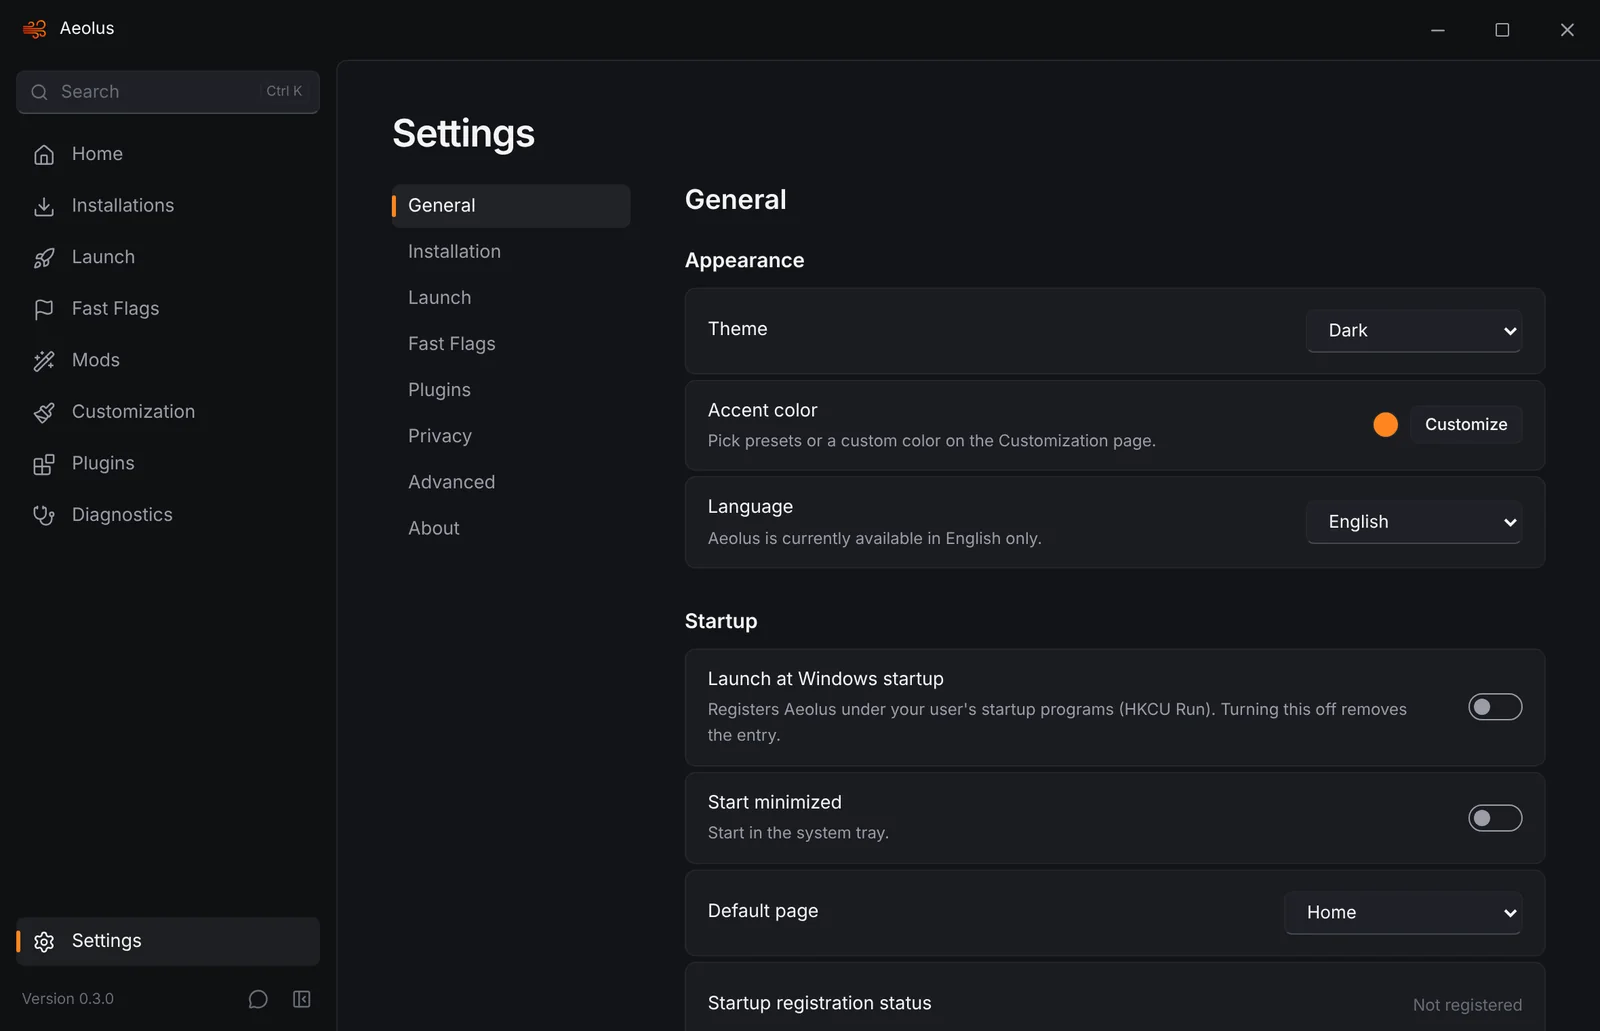
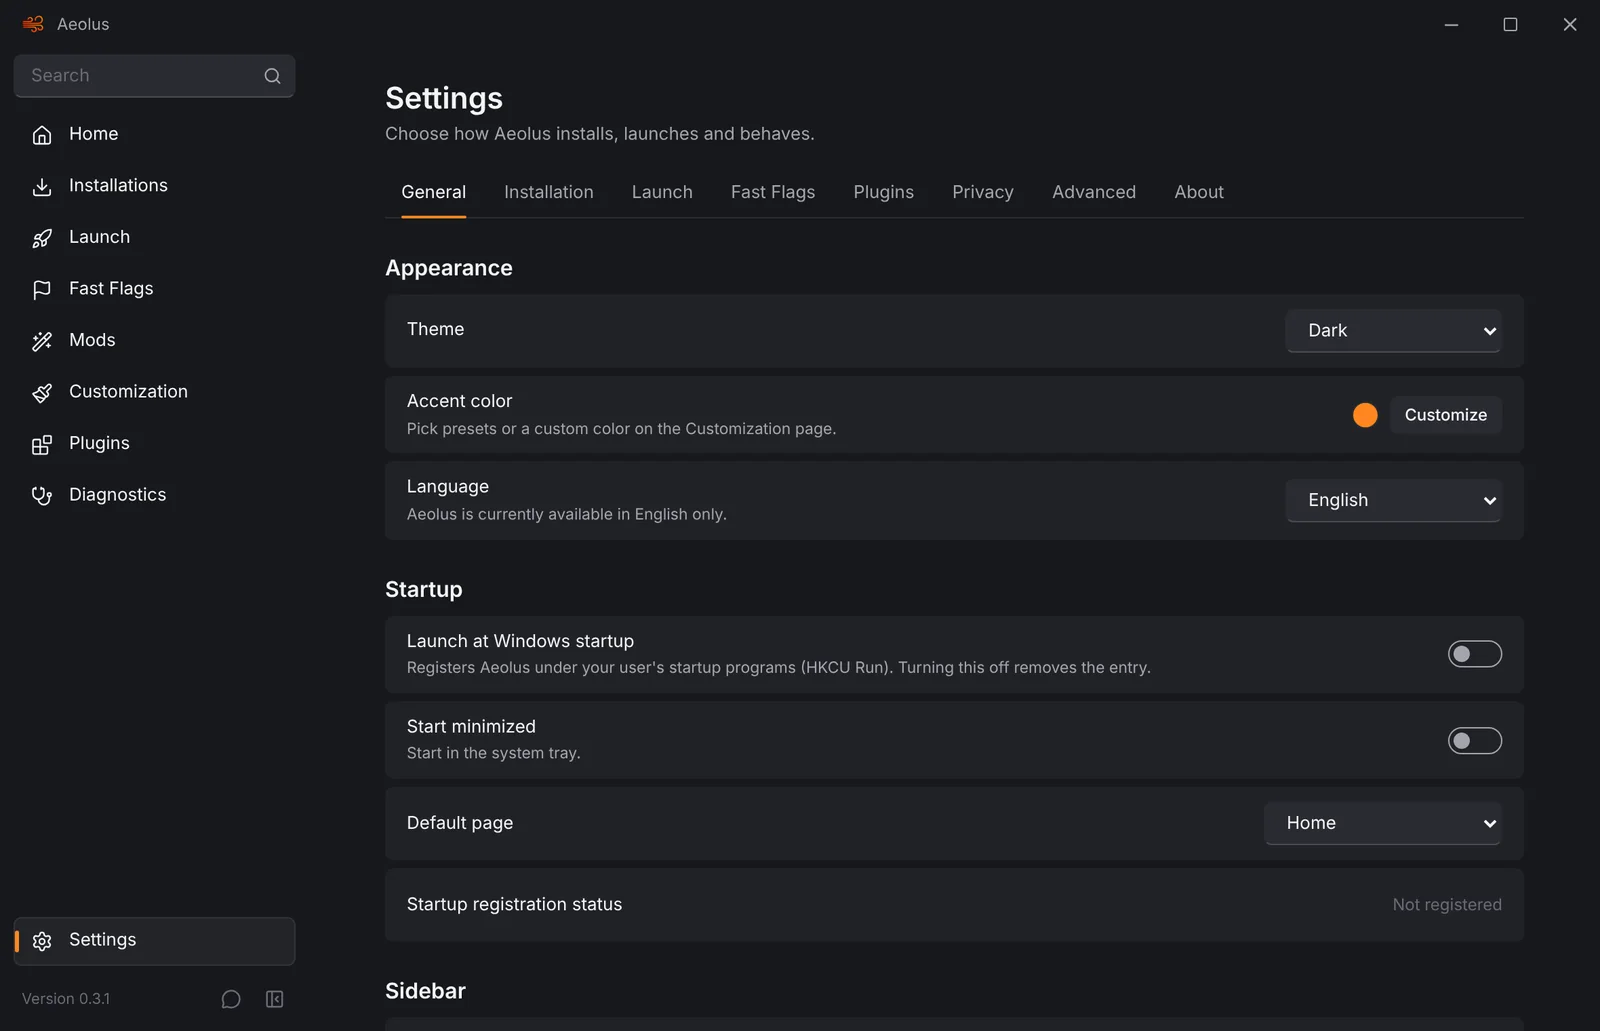
More minimal design: flat background, compact rows, settings tabs (0.3.1)

diff --git a/src/pages/Settings.tsx b/src/pages/Settings.tsx
@@ -58,24 +58,24 @@ export default function Settings() {
   );
 
   return (
-    <div className="mx-auto flex max-w-5xl gap-10 px-10 py-9">
-      <nav className="sticky top-0 w-44 shrink-0 self-start" aria-label="Settings sections">
-        <h1 className="mb-5 text-[28px] font-semibold leading-tight tracking-tight text-fg">Settings</h1>
+    <div className="mx-auto max-w-4xl px-7 py-6">
+      <h1 className="text-[22px] font-semibold leading-tight text-fg">Settings</h1>
+      <p className="mt-0.5 text-[13px] text-fg-2">Choose how Aeolus installs, launches and behaves.</p>
+      <nav className="mb-6 mt-4 flex flex-wrap gap-1 border-b border-line" aria-label="Settings sections">
         {SECTIONS.map((x) => (
           <button
             key={x}
             onClick={() => setSection(x)}
             aria-current={section === x ? "page" : undefined}
-            className={cx("relative mb-0.5 flex h-8 w-full items-center rounded-md px-3 text-left text-[13.5px] transition-colors", section === x ? "bg-fg/[0.07] text-fg" : "text-fg-2 hover:bg-fg/[0.04] hover:text-fg")}
+            className={cx("relative -mb-px h-9 px-3 text-[13px] transition-colors", section === x ? "text-fg" : "text-fg-2 hover:text-fg")}
           >
-            {section === x && <span className="absolute left-0 top-1/2 h-4 w-[3px] -translate-y-1/2 rounded-full bg-accent" />}
             {x}
+            {section === x && <span className="absolute inset-x-3 bottom-0 h-[2px] rounded-full bg-accent" />}
           </button>
         ))}
       </nav>
 
-      <div className="min-w-0 flex-1 pt-[52px]">
-        <h2 className="mb-5 text-xl font-semibold text-fg">{section}</h2>
+      <div className="min-w-0">
 
         {section === "General" && (
           <>
@@ -170,7 +170,7 @@ export default function Settings() {
                 description={
                   integration.data && !integration.data.discordAvailable
                     ? "Not available in this build of Aeolus."
-                    : "Shows \u201cRunning Roblox with Aeolus\u201d with the Aeolus logo on your Discord profile while Roblox is open. Aeolus must stay running (it can sit in the tray)."
+                    : "Shows “Running Roblox with Aeolus” with the Aeolus logo on your Discord profile while Roblox is open. Aeolus must stay running (it can sit in the tray)."
                 }
               >
                 <Toggle label="Discord Rich Presence" checked={s.discord.richPresence} disabled={integration.data ? !integration.data.discordAvailable : false} onChange={(v) => set("discord", { richPresence: v })} />
@@ -178,7 +178,7 @@ export default function Settings() {
               <Field label="Show the game you're playing" description="Shows the game's name, icon and creator, plus a button to its page.">
                 <Toggle label="Show the game you're playing" checked={s.discord.showGame} disabled={!s.discord.richPresence} onChange={(v) => set("discord", { showGame: v })} />
               </Field>
-              <Field label="Show profile name" description="Adds \u201cProfile: <name>\u201d under the status.">
+              <Field label="Show profile name" description="Adds “Profile: <name>” under the status.">
                 <Toggle label="Show profile name" checked={s.discord.showProfile} disabled={!s.discord.richPresence} onChange={(v) => set("discord", { showProfile: v })} />
               </Field>
             </Group>
@@ -189,7 +189,7 @@ export default function Settings() {
               <Field label="Show server location" description="Looks up where the Roblox server is (city, region, country) using ipinfo.io. Only the Roblox server's address is sent, never yours.">
                 <Toggle label="Show server location" checked={s.games.serverLocation} disabled={!s.games.trackGames} onChange={(v) => set("games", { serverLocation: v })} />
               </Field>
-              <Field label="Notify me where the server is" description="A notification like \u201cServer location: Ashburn, Virginia, US\u201d when you join.">
+              <Field label="Notify me where the server is" description="A notification like “Server location: Ashburn, Virginia, US” when you join.">
                 <Toggle label="Notify me where the server is" checked={s.games.notifyLocation} disabled={!s.games.trackGames || !s.games.serverLocation} onChange={(v) => set("games", { notifyLocation: v })} />
               </Field>
             </Group>

diff --git a/src/components/ui/index.tsx b/src/components/ui/index.tsx
@@ -100,7 +100,7 @@ export function Select({ className, children, ...rest }: SelectHTMLAttributes<HT
 
 export function Card({ className, children, ...rest }: { className?: string; children: ReactNode } & React.HTMLAttributes<HTMLDivElement>) {
   return (
-    <div className={cx("rounded-lg border border-line bg-surface", className)} {...rest}>
+    <div className={cx("rounded-md border border-transparent bg-surface", className)} {...rest}>
       {children}
     </div>
   );
@@ -145,13 +145,13 @@ export function Field({ label, description, children, className }: { label: Reac
       data-setting={typeof label === "string" ? label : undefined}
       className={cx(
         "flex items-center justify-between gap-6",
-        card ? "min-h-[64px] rounded-lg border border-line bg-surface px-4 py-3 transition-colors hover:bg-surface-hover" : "py-3",
+        card ? "min-h-[54px] rounded-md bg-surface px-4 py-2.5 transition-colors hover:bg-surface-hover" : "py-3",
         className,
       )}
     >
       <div className="min-w-0">
-        <div className="text-[13.5px] text-fg">{label}</div>
-        {description && <div className="mt-0.5 text-xs leading-relaxed text-fg-2">{description}</div>}
+        <div className="text-[13px] text-fg">{label}</div>
+        {description && <div className="mt-0.5 text-[11.5px] leading-snug text-fg-2">{description}</div>}
       </div>
       <div className="flex shrink-0 items-center gap-2">{children}</div>
     </div>
@@ -161,10 +161,10 @@ export function Field({ label, description, children, className }: { label: Reac
 /** A titled list of setting cards. */
 export function SettingGroup({ title, description, children }: { title: string; description?: ReactNode; children: ReactNode }) {
   return (
-    <section className="mb-7">
-      <h2 className="mb-1 text-[15px] font-semibold text-fg">{title}</h2>
-      {description && <p className="mb-2 text-xs text-fg-2">{description}</p>}
-      <div className={cx("flex flex-col gap-1", !description && "mt-2")}>
+    <section className="mb-6">
+      <h2 className="text-[16px] font-semibold text-fg">{title}</h2>
+      {description && <p className="mt-0.5 text-xs text-fg-2">{description}</p>}
+      <div className="mt-2 flex flex-col gap-1.5">
         <InGroup.Provider value={true}>{children}</InGroup.Provider>
       </div>
     </section>
@@ -174,7 +174,7 @@ export function SettingGroup({ title, description, children }: { title: string; 
 export function SectionTitle({ children, action }: { children: ReactNode; action?: ReactNode }) {
   return (
     <div className="mb-2.5 flex min-h-7 items-center justify-between">
-      <h2 className="text-[15px] font-semibold text-fg">{children}</h2>
+      <h2 className="text-[16px] font-semibold text-fg">{children}</h2>
       {action}
     </div>
   );
@@ -193,10 +193,10 @@ export function EmptyState({ icon, title, description, action }: { icon?: ReactN
 
 export function PageHeader({ title, description, actions }: { title: string; description?: string; actions?: ReactNode }) {
   return (
-    <div className="mb-7 flex items-end justify-between gap-4">
+    <div className="mb-5 flex items-end justify-between gap-4">
       <div className="min-w-0">
-        <h1 className="text-[28px] font-semibold leading-tight tracking-tight text-fg">{title}</h1>
-        {description && <p className="mt-1.5 max-w-2xl text-[13.5px] text-fg-2">{description}</p>}
+        <h1 className="text-[22px] font-semibold leading-tight text-fg">{title}</h1>
+        {description && <p className="mt-0.5 max-w-2xl text-[13px] text-fg-2">{description}</p>}
       </div>
       {actions && <div className="flex items-center gap-2">{actions}</div>}
     </div>

diff --git a/src/pages/Home.tsx b/src/pages/Home.tsx
@@ -70,11 +70,11 @@ export default function Home() {
   return (
     <div className={cx("relative min-h-full", bg === "glow" && "bg-glow")}>
       {bg === "grid" && <div className="bg-grid pointer-events-none absolute inset-x-0 top-0 h-80" />}
-      <div className="relative mx-auto max-w-5xl px-10 py-9">
+      <div className="relative mx-auto max-w-5xl px-7 py-6">
         <motion.div initial={{ opacity: 0, y: 4 }} animate={{ opacity: 1, y: 0 }} transition={{ duration: 0.2 }} className="flex items-end justify-between gap-6">
           <div className="min-w-0">
-            <h1 className="text-[28px] font-semibold leading-tight tracking-tight text-fg">Welcome back</h1>
-            <div className="mt-1.5 flex flex-wrap items-center gap-x-2 gap-y-1 text-[13.5px] text-fg-2">
+            <h1 className="text-[22px] font-semibold leading-tight text-fg">Welcome back</h1>
+            <div className="mt-0.5 flex flex-wrap items-center gap-x-2 gap-y-1 text-[13px] text-fg-2">
               <span className={cx("inline-flex items-center gap-1.5", ready && !o?.update.updateAvailable && !busy && "text-success")}>
                 {ready && !o?.update.updateAvailable && !busy ? <CheckCircle2 size={14} /> : <ActivityIcon size={14} />}
                 {statusText}
@@ -121,7 +121,7 @@ export default function Home() {
           </Card>
         )}
 
-        <Card className="mt-7 grid grid-cols-4 divide-x divide-line">
+        <Card className="mt-5 grid grid-cols-4 divide-x divide-bg">
           <Stat label="Installation" value={installed ? "Installed" : external ? "External" : "Not installed"} sub={installed ? `${installed.fileCount.toLocaleString()} files` : external ? "Using another installation" : "Install from Aeolus"} tone={ready ? undefined : "warn"} />
           <Stat label="Client version" value={installed?.version ?? o?.update.installed ?? "—"} sub={installed?.versionGuid} />
           <Stat
@@ -141,10 +141,10 @@ export default function Home() {
           <Button size="sm" icon={<ArchiveRestore size={13} />} onClick={() => openRestore()}>Restore config</Button>
         </div>
 
-        <div className="mt-9 grid grid-cols-2 gap-6">
+        <div className="mt-7 grid grid-cols-2 gap-5">
           <div className="min-w-0">
             <SectionTitle action={others.length > 0 ? <Button size="sm" variant="ghost" onClick={() => navigate("launch")}>See all</Button> : undefined}>Recent games</SectionTitle>
-            <Card className="divide-y divide-line">
+            <Card className="divide-y divide-bg">
               {others.length === 0 && <EmptyState icon={<Rocket size={20} />} title="No games yet" description="Games you join after launching from Aeolus show up here, with a Rejoin button." />}
               {others.slice(0, 4).map((g) => <GameRow key={g.id} game={g} compact />)}
             </Card>

diff --git a/src/components/Sidebar.tsx b/src/components/Sidebar.tsx
@@ -34,14 +34,14 @@ export function Sidebar() {
         title={collapsed ? n.label : undefined}
         aria-current={active ? "page" : undefined}
         className={cx(
-          "relative flex items-center gap-3 rounded-md px-3 text-[13.5px] transition-colors",
+          "relative flex items-center gap-3 rounded-md border px-3 text-[13px] transition-colors",
           compact ? "h-8" : "h-9",
-          active ? "bg-fg/[0.07] text-fg" : "text-fg-2 hover:bg-fg/[0.04] hover:text-fg",
+          active ? "border-fg/[0.08] bg-fg/[0.06] text-fg" : "border-transparent text-fg hover:bg-fg/[0.04]",
           collapsed && "justify-center px-0",
         )}
       >
         {active && <motion.span layoutId="nav-indicator" transition={{ duration: 0.18 }} className="absolute left-0 top-1/2 h-4 w-[3px] -translate-y-1/2 rounded-full bg-accent" />}
-        <Icon size={17} strokeWidth={1.75} className={cx("shrink-0", active ? "text-fg" : "text-fg-2")} />
+        <Icon size={16} strokeWidth={1.75} className="shrink-0 text-fg" />
         {!collapsed && <span className="truncate">{n.label}</span>}
       </button>
     );
@@ -49,15 +49,15 @@ export function Sidebar() {
 
   return (
     <motion.aside
-      animate={{ width: collapsed ? 60 : 248 }}
+      animate={{ width: collapsed ? 60 : 228 }}
       transition={{ duration: 0.18, ease: "easeOut" }}
       className={cx("flex shrink-0 flex-col", subtle ? "bg-bg" : "bg-bg-2")}
     >
-      <div className={cx("px-3 pb-3 pt-2", collapsed && "px-2")}>
+      <div className={cx("px-2.5 pb-2.5 pt-1", collapsed && "px-2")}>
         <SearchBox collapsed={collapsed} />
       </div>
 
-      <nav className={cx("flex flex-1 flex-col gap-0.5 overflow-y-auto px-3", collapsed && "px-2")} aria-label="Main">
+      <nav className={cx("flex flex-1 flex-col gap-0.5 overflow-y-auto px-2.5", collapsed && "px-2")} aria-label="Main">
         {NAV.filter((n) => n.id !== "settings").map(item)}
         <div className="flex-1" />
         {item(NAV.find((n) => n.id === "settings")!)}

diff --git a/src/components/SearchBox.tsx b/src/components/SearchBox.tsx
@@ -93,7 +93,7 @@ export function SearchBox({ collapsed }: { collapsed: boolean }) {
 
   const field = (
     <div className="relative">
-      <Search size={14} className="pointer-events-none absolute left-2.5 top-1/2 -translate-y-1/2 text-fg-3" />
+
       <input
         ref={input}
         value={query}
@@ -107,14 +107,15 @@ export function SearchBox({ collapsed }: { collapsed: boolean }) {
         placeholder="Search"
         aria-label="Search Aeolus"
         spellCheck={false}
-        className="h-8 w-full rounded-md border border-line border-b-fg-3/50 bg-control pl-8 pr-12 text-[13px] text-fg placeholder:text-fg-3 transition-colors hover:bg-surface-hover focus:border-b-accent focus:bg-bg focus:outline-none focus-visible:outline-none"
+        title="Search (Ctrl+K)"
+        className="h-8 w-full rounded-md border border-line border-b-fg-3/50 bg-control pl-3 pr-9 text-[13px] text-fg placeholder:text-fg-3 transition-colors hover:bg-surface-hover focus:border-b-accent focus:bg-bg focus:outline-none focus-visible:outline-none"
       />
       {query ? (
         <button aria-label="Clear search" onMouseDown={(e) => e.preventDefault()} onClick={() => setQuery("")} className="absolute right-1.5 top-1/2 flex h-5 w-5 -translate-y-1/2 items-center justify-center rounded text-fg-3 hover:text-fg">
           <X size={13} />
         </button>
       ) : (
-        <kbd className="pointer-events-none absolute right-2 top-1/2 -translate-y-1/2 rounded border border-line px-1 font-sans text-[10px] text-fg-3">Ctrl K</kbd>
+        <Search size={14} className="pointer-events-none absolute right-2.5 top-1/2 -translate-y-1/2 text-fg-2" />
       )}
     </div>
   );

diff --git a/src/components/TitleBar.tsx b/src/components/TitleBar.tsx
@@ -23,13 +23,13 @@ export function TitleBar({ title }: { title: string }) {
   const { settings } = useApp();
   const iconOnly = settings?.appearance.logoPresentation === "icon";
   const w = () => getCurrentWindow();
-  const btn = "flex h-full w-12 items-center justify-center text-fg-2 transition-colors hover:bg-fg/[0.07] hover:text-fg";
+  const btn = "flex h-full w-11 items-center justify-center text-fg-2 transition-colors hover:bg-fg/[0.07] hover:text-fg";
 
   return (
-    <div className="flex h-11 shrink-0 select-none items-center bg-bg-2" data-tauri-drag-region onDoubleClick={() => inTauri() && w().toggleMaximize()}>
+    <div className="flex h-9 shrink-0 select-none items-center bg-bg-2" data-tauri-drag-region onDoubleClick={() => inTauri() && w().toggleMaximize()}>
       <div className="pointer-events-none flex items-center gap-2.5 pl-4" data-tauri-drag-region>
-        <Logo size={18} />
-        {!iconOnly && <span className="text-[12.5px] text-fg">Aeolus</span>}
+        <Logo size={16} />
+        {!iconOnly && <span className="text-xs text-fg-2">Aeolus</span>}
         <span className="sr-only">{title}</span>
       </div>
       <div className="flex-1" data-tauri-drag-region />

diff --git a/src/styles/index.css b/src/styles/index.css
@@ -5,14 +5,14 @@
    a slightly lighter content layer, and calm setting cards on top. */
 :root,
 [data-theme="dark"] {
-  --bg: #131418;          /* content layer */
-  --bg-2: #0f1013;        /* window chrome: title bar, navigation */
-  --surface: #1a1c21;     /* cards and setting rows */
-  --surface-hover: #202228;
-  --control: #1f2127;     /* inputs, selects, secondary buttons */
-  --border: #24262d;
+  --bg: #17181c;          /* window */
+  --bg-2: #17181c;        /* title bar + navigation: same flat background */
+  --surface: #212227;     /* cards and setting rows, set apart by shade */
+  --surface-hover: #26272d;
+  --control: #2a2b31;     /* inputs, selects, secondary buttons */
+  --border: #2a2b31;
   --text: #f4f4f5;
-  --text-2: #9a9ca6;
+  --text-2: #a3a5ad;
   --text-3: #686b76;
   --success: #36b37e;
   --warning: #e9a23b;
@@ -25,8 +25,8 @@
 }
 
 [data-theme="light"] {
-  --bg: #f7f7f9;
-  --bg-2: #eeeef1;
+  --bg: #f3f3f5;
+  --bg-2: #f3f3f5;
   --surface: #ffffff;
   --surface-hover: #f6f6f8;
   --control: #ffffff;

diff --git a/src/layouts/MainLayout.tsx b/src/layouts/MainLayout.tsx
@@ -14,7 +14,7 @@ export function MainLayout({ children }: { children: ReactNode }) {
       <TitleBar title={label ? `Aeolus — ${label}` : "Aeolus"} />
       <div className="flex min-h-0 flex-1">
         <Sidebar />
-        <main className="min-w-0 flex-1 overflow-y-auto rounded-tl-lg border-l border-t border-line bg-bg">{children}</main>
+        <main className="min-w-0 flex-1 overflow-y-auto bg-bg">{children}</main>
       </div>
       <ProgressDock />
     </div>

diff --git a/src/pages/Launch.tsx b/src/pages/Launch.tsx
@@ -65,7 +65,7 @@ export default function Launch() {
   const flagName = (id: string | null) => (id ? flags.data?.find((f) => f.id === id)?.name ?? "Missing profile" : "Default Fast Flags");
 
   return (
-    <div className="mx-auto max-w-5xl px-10 py-9">
+    <div className="mx-auto max-w-5xl px-7 py-6">
       <PageHeader
         title="Launch"
         description="Launch Roblox with a profile. Profiles combine launch preferences with a Fast Flag configuration."

diff --git a/src/pages/Customization.tsx b/src/pages/Customization.tsx
@@ -18,7 +18,7 @@ export default function Customization() {
     updateSettings((cur) => ({ ...cur, [section]: { ...(cur[section] as object), ...patch } }));
 
   return (
-    <div className="mx-auto max-w-4xl px-10 py-9">
+    <div className="mx-auto max-w-4xl px-7 py-6">
       <PageHeader title="Customization" description="Make Aeolus look and behave the way you like. Changes apply instantly and are saved." />
 
       <SectionTitle>Theme</SectionTitle>

diff --git a/src/pages/Diagnostics.tsx b/src/pages/Diagnostics.tsx
@@ -58,7 +58,7 @@ export default function Diagnostics() {
   ];
 
   return (
-    <div className="mx-auto flex h-full max-w-5xl flex-col px-10 py-9">
+    <div className="mx-auto flex h-full max-w-5xl flex-col px-7 py-6">
       <PageHeader
         title="Diagnostics"
         description="System details, logs and exportable reports for troubleshooting. No passwords, cookies or tokens are ever collected."

diff --git a/src/pages/Mods.tsx b/src/pages/Mods.tsx
@@ -105,7 +105,7 @@ export default function Mods() {
   const anyActive = mods.data?.some((s) => s.choice) ?? false;
 
   return (
-    <div className="mx-auto max-w-4xl px-10 py-9">
+    <div className="mx-auto max-w-4xl px-7 py-6">
       <PageHeader
         title="Mods"
         description="Change Roblox's built-in sky, sounds, cursors and fonts. Originals are saved and can be restored any time."
